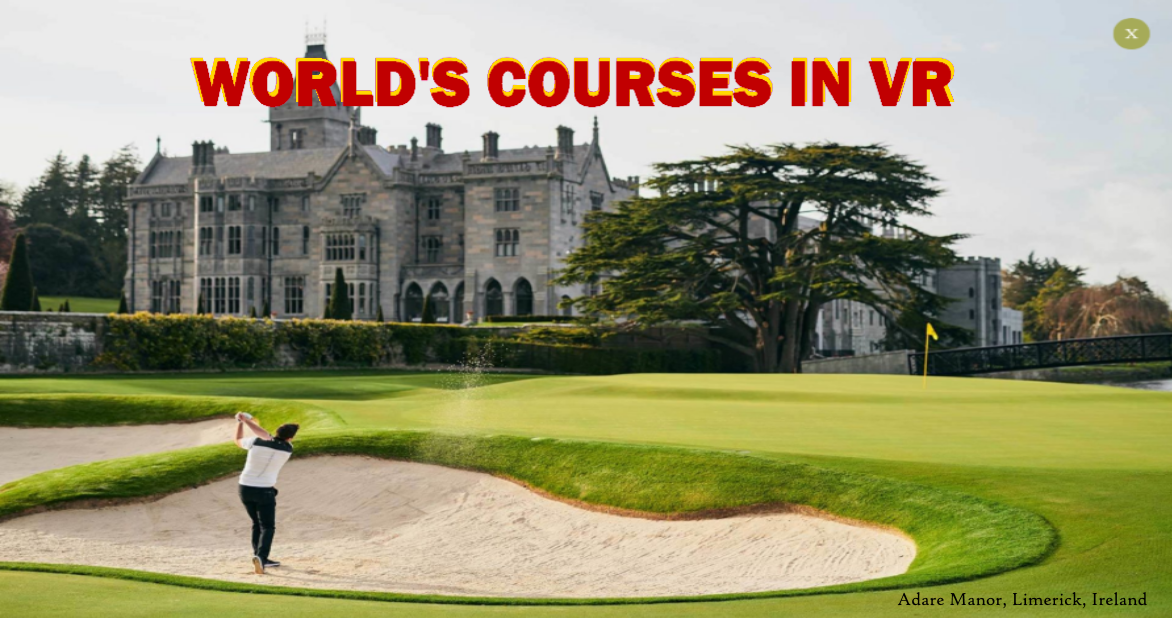
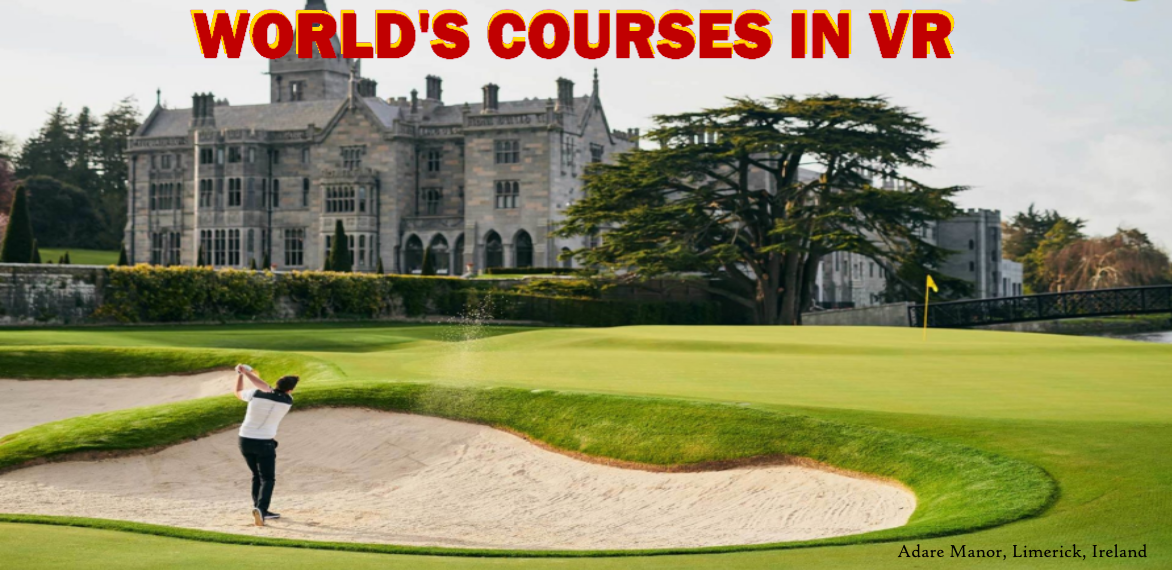
Added css to make website mobile friendly for horizontal and landscape

diff --git a/GolfBackend/public/style.css b/GolfBackend/public/style.css
@@ -2,13 +2,18 @@ body{
     background-image: url("img/adare_manor.png");
     background-repeat: no-repeat;
         background-size: 100% 100%;
+        background-position:center;
   padding: 0px;
   margin: 0px;
   font-family: 'Nunito', sans-serif;
   font-size: 16px;
+  webkit-background-size: cover;
+-moz-background-size: cover;
+-o-background-size: cover;
 }
 html {
-    height: 100%
+    min-height: 100%;
+
 }
 /* On mouse-over, add a depper shadow */
 
@@ -41,10 +46,11 @@ input, button{
 }
 .main-div, .loggedin-div{
   /*background: white;*/
+  position: static;
   background: rgba(255,255,255,0.8);
   box-shadow: 0 4px 8px 0 rgba(0,0,0,0.6);
   transition: 0.3s;
-  width: 20%;
+  width: 40%;
   margin: 0px auto;
   margin-top: 150px;
   padding:20px;
@@ -148,4 +154,131 @@ box-shadow: 0 8px 16px 0 rgba(0,0,0,0.6);
   color: #5d8ffc;
   border: 1px solid #5d8ffc;
   cursor: pointer;
+}
+
+@media only screen and (orientation: portrait) and (max-width: 600px) {
+  .main-div, .loggedin-div{
+    width: 60%;
+    margin: 0px auto;
+    margin-top: 170px;
+    padding:20px;
+    display: none;
+    border-radius: 5px;
+  }
+  .main-div button, .loggedin-div button{
+    border: 1px solid #5d8ffc;
+    border-radius: 5px;
+    box-shadow: 0 4px 8px 0 rgba(0,0,0,0.6);
+    padding: 15px;
+    display: block;
+    width: 100%;
+
+
+  }
+  .main-div input, .reg-name-div, .card-div input {
+    display: block;
+    border: 1px solid #ccc;
+    border-radius: 5px;
+    background:#fff;
+    padding: 15px;
+    outline: none;
+    width: 100%;
+    margin-bottom: 10px;
+    transition: 0.3s;
+    -webkit-transition:0.3s;
+    -moz-transition:0.3s;
+  }
+
+  .card-div{
+    /*background: white;*/
+    background: rgba(255,255,255,0.8);
+    box-shadow: 0 4px 8px 0 rgba(0,0,0,0.6);
+    transition: 0.3s;
+    width: 70%;
+    margin: 0px auto;
+    margin-top: 100px;
+    padding:20px;
+    border-radius: 5px;
+
+  }
+  .card-div button {
+   background: #5d8ffc;
+   color: #fff;
+   box-shadow: 0 4px 8px 0 rgba(0,0,0,0.6);
+   border: 1px solid #5d8ffc;
+   border-radius: 5px;
+   padding: 10px;
+   display: block;
+   margin-top: -20px;
+   margin: 0 auto;
+   width: 50%;
+   transition: 0.3s;
+   -webkit-transition:0.3s;
+   -moz-transition:0.3s;
+ }
+}
+
+@media screen and (orientation: landscape) and (max-width: 900px){
+  .main-div, .loggedin-div{
+    width: 50%;
+    margin: 0px auto;
+    margin-top: 30px;
+    padding:10px;
+    display: none;
+    border-radius: 5px;
+    -webkit-transform:scale(0.90);
+-moz-transform:scale(0.90);
+-ms-transform:scale(0.90);
+transform:scale(0.90);
+  }
+  .main-div button, .loggedin-div button{
+    border: 1px solid #5d8ffc;
+    border-radius: 5px;
+    box-shadow: 0 4px 8px 0 rgba(0,0,0,0.6);
+    padding: 10px;
+    display: block;
+    width: 100%;
+
+
+  }
+  .main-div input, .reg-name-div input,.card-div input {
+    display: block;
+    border: 1px solid #ccc;
+    border-radius: 5px;
+    background:#fff;
+    padding: 10px;
+    outline: none;
+    width: 100%;
+    margin-bottom: 10px;
+    transition: 0.3s;
+    -webkit-transition:0.3s;
+    -moz-transition:0.3s;
+  }
+  .card-div{
+    /*background: white;*/
+  width: 60%;
+    margin-top: 15px;
+    padding:10px;
+    -webkit-transform:scale(0.80);
+-moz-transform:scale(0.80);
+-ms-transform:scale(0.80);
+transform:scale(0.80);
+
+  }
+  .card-div button {
+   background: #5d8ffc;
+   color: #fff;
+   box-shadow: 0 4px 8px 0 rgba(0,0,0,0.6);
+   border: 1px solid #5d8ffc;
+   border-radius: 5px;
+   padding: 10px;
+   display: block;
+   margin-top: -20px;
+   margin: 0 auto;
+   width: 50%;
+   transition: 0.3s;
+   -webkit-transition:0.3s;
+   -moz-transition:0.3s;
+ }
+
 }

diff --git a/GolfBackend/public/upload.css b/GolfBackend/public/upload.css
@@ -2,13 +2,18 @@ body{
     background-image: url("img/bg2.jpg");
     background-repeat: no-repeat;
         background-size: 100% 100%;
+        background-position:center;
   padding: 0px;
   margin: 0px;
   font-family: 'Nunito', sans-serif;
   font-size: 16px;
+  webkit-background-size: cover;
+-moz-background-size: cover;
+-o-background-size: cover;
 }
 html {
-    height: 100%
+    min-height: 100%;
+
 }
 input, button{
   font-family: 'Nunito', sans-serif;
@@ -132,4 +137,73 @@ input, button{
   width: 100%;
 
   margin-bottom: 10px;
+}
+@media screen and (orientation: portrait) and (max-device-width: 800px) {
+  .cardEdit-div{
+    /*background: white;*/
+    margin: 0 auto;
+    text-align: center;
+    background: rgba(255,255,255,0.8);
+    box-shadow: 0 4px 8px 0 rgba(0,0,0,0.6);
+    transition: 0.3s;
+    width: 80%;
+    margin: 0px auto;
+    margin-top: 90px;
+    padding:20px;
+    border-radius: 20px;
+
+
+  }
+  .cardEdit-div button {
+   background: #5d8ffc;
+   color: #fff;
+   box-shadow: 0 4px 8px 0 rgba(0,0,0,0.6);
+   border: 1px solid #5d8ffc;
+   border-radius: 5px;
+   padding: 15px;
+   display: block;
+   margin-top: -20px;
+   margin: 0 auto;
+   width: 50%;
+   transition: 0.3s;
+   -webkit-transition:0.3s;
+   -moz-transition:0.3s;
+  }
+}
+
+@media screen and (orientation: landscape) and (max-device-width: 900px) {
+  .cardEdit-div{
+    /*background: white;*/
+    margin: 0 auto;
+    text-align: center;
+    background: rgba(255,255,255,0.8);
+    box-shadow: 0 4px 8px 0 rgba(0,0,0,0.6);
+    transition: 0.3s;
+    width: 50%;
+    margin: 0px auto;
+    margin-top: -38px;
+    padding:10px;
+    border-radius: 15px;
+    -webkit-transform:scale(0.75);
+  -moz-transform:scale(0.75);
+  -ms-transform:scale(0.75);
+  transform:scale(0.75);
+
+
+  }
+  .cardEdit-div button {
+   background: #5d8ffc;
+   color: #fff;
+   box-shadow: 0 4px 8px 0 rgba(0,0,0,0.6);
+   border: 1px solid #5d8ffc;
+   border-radius: 5px;
+   padding: 10px;
+   display: block;
+   margin-top: -20px;
+   margin: 0 auto;
+   width: 50%;
+   transition: 0.3s;
+   -webkit-transition:0.3s;
+   -moz-transition:0.3s;
+  }
 }

diff --git a/GolfBackend/public/edit.html b/GolfBackend/public/edit.html
@@ -6,6 +6,7 @@
   <title>Edit Course</title>
   <link href="https://fonts.googleapis.com/css?family=Nunito:400,600,700" rel="stylesheet">
   <link rel="stylesheet" href="upload.css" />
+  <meta name="viewport" content="width=device-width, initial-scale=1">
 </head>
 <div class="cardEdit-div">
 
@@ -73,8 +74,6 @@
     <option value="Green">Green</option>
   </select>
     </div>
-    <br>
-    <br>
 
     <body id="upload_body" class="section-div">
       <div id="upload_div" class="section-div" onclick="storeHoleName(); errorCheckFields();">

diff --git a/GolfBackend/public/upload.html b/GolfBackend/public/upload.html
@@ -6,6 +6,7 @@
   <title>Upload</title>
   <link href="https://fonts.googleapis.com/css?family=Nunito:400,600,700" rel="stylesheet">
   <link rel="stylesheet" href="upload.css" />
+  <meta name="viewport" content="width=device-width, initial-scale=1">
 </head>
 
 <div class="cardEdit-div">
@@ -65,8 +66,6 @@
     <option value="Green">Green</option>
   </select>
     </div>
-    <br>
-    <br>
 
     <body id="upload_body" class="upload-body">
       <div id="upload_div" class="upload-div">

diff --git a/GolfBackend/public/index.html b/GolfBackend/public/index.html
@@ -20,7 +20,7 @@
   </div>
 
   <div id="user_div" class="loggedin-div">
-    <h3>Welcome User</h3>
+    <h3>Welcome To GolfVR</h3>
     <p id="user_para">Welcome to GolfVR. You're currently logged in.</p>
     <div id="registerButton_div" hidden>
       <a href="course.html"><button>Register course</button></a>

diff --git a/GolfBackend/public/course.html b/GolfBackend/public/course.html
@@ -5,6 +5,7 @@
   <title>Course Register</title>
   <link href="https://fonts.googleapis.com/css?family=Nunito:400,600,700" rel="stylesheet">
   <link rel="stylesheet" href="style.css" />
+  <meta name="viewport" content="width=device-width, initial-scale=1">
 </head>
 
 <body>
